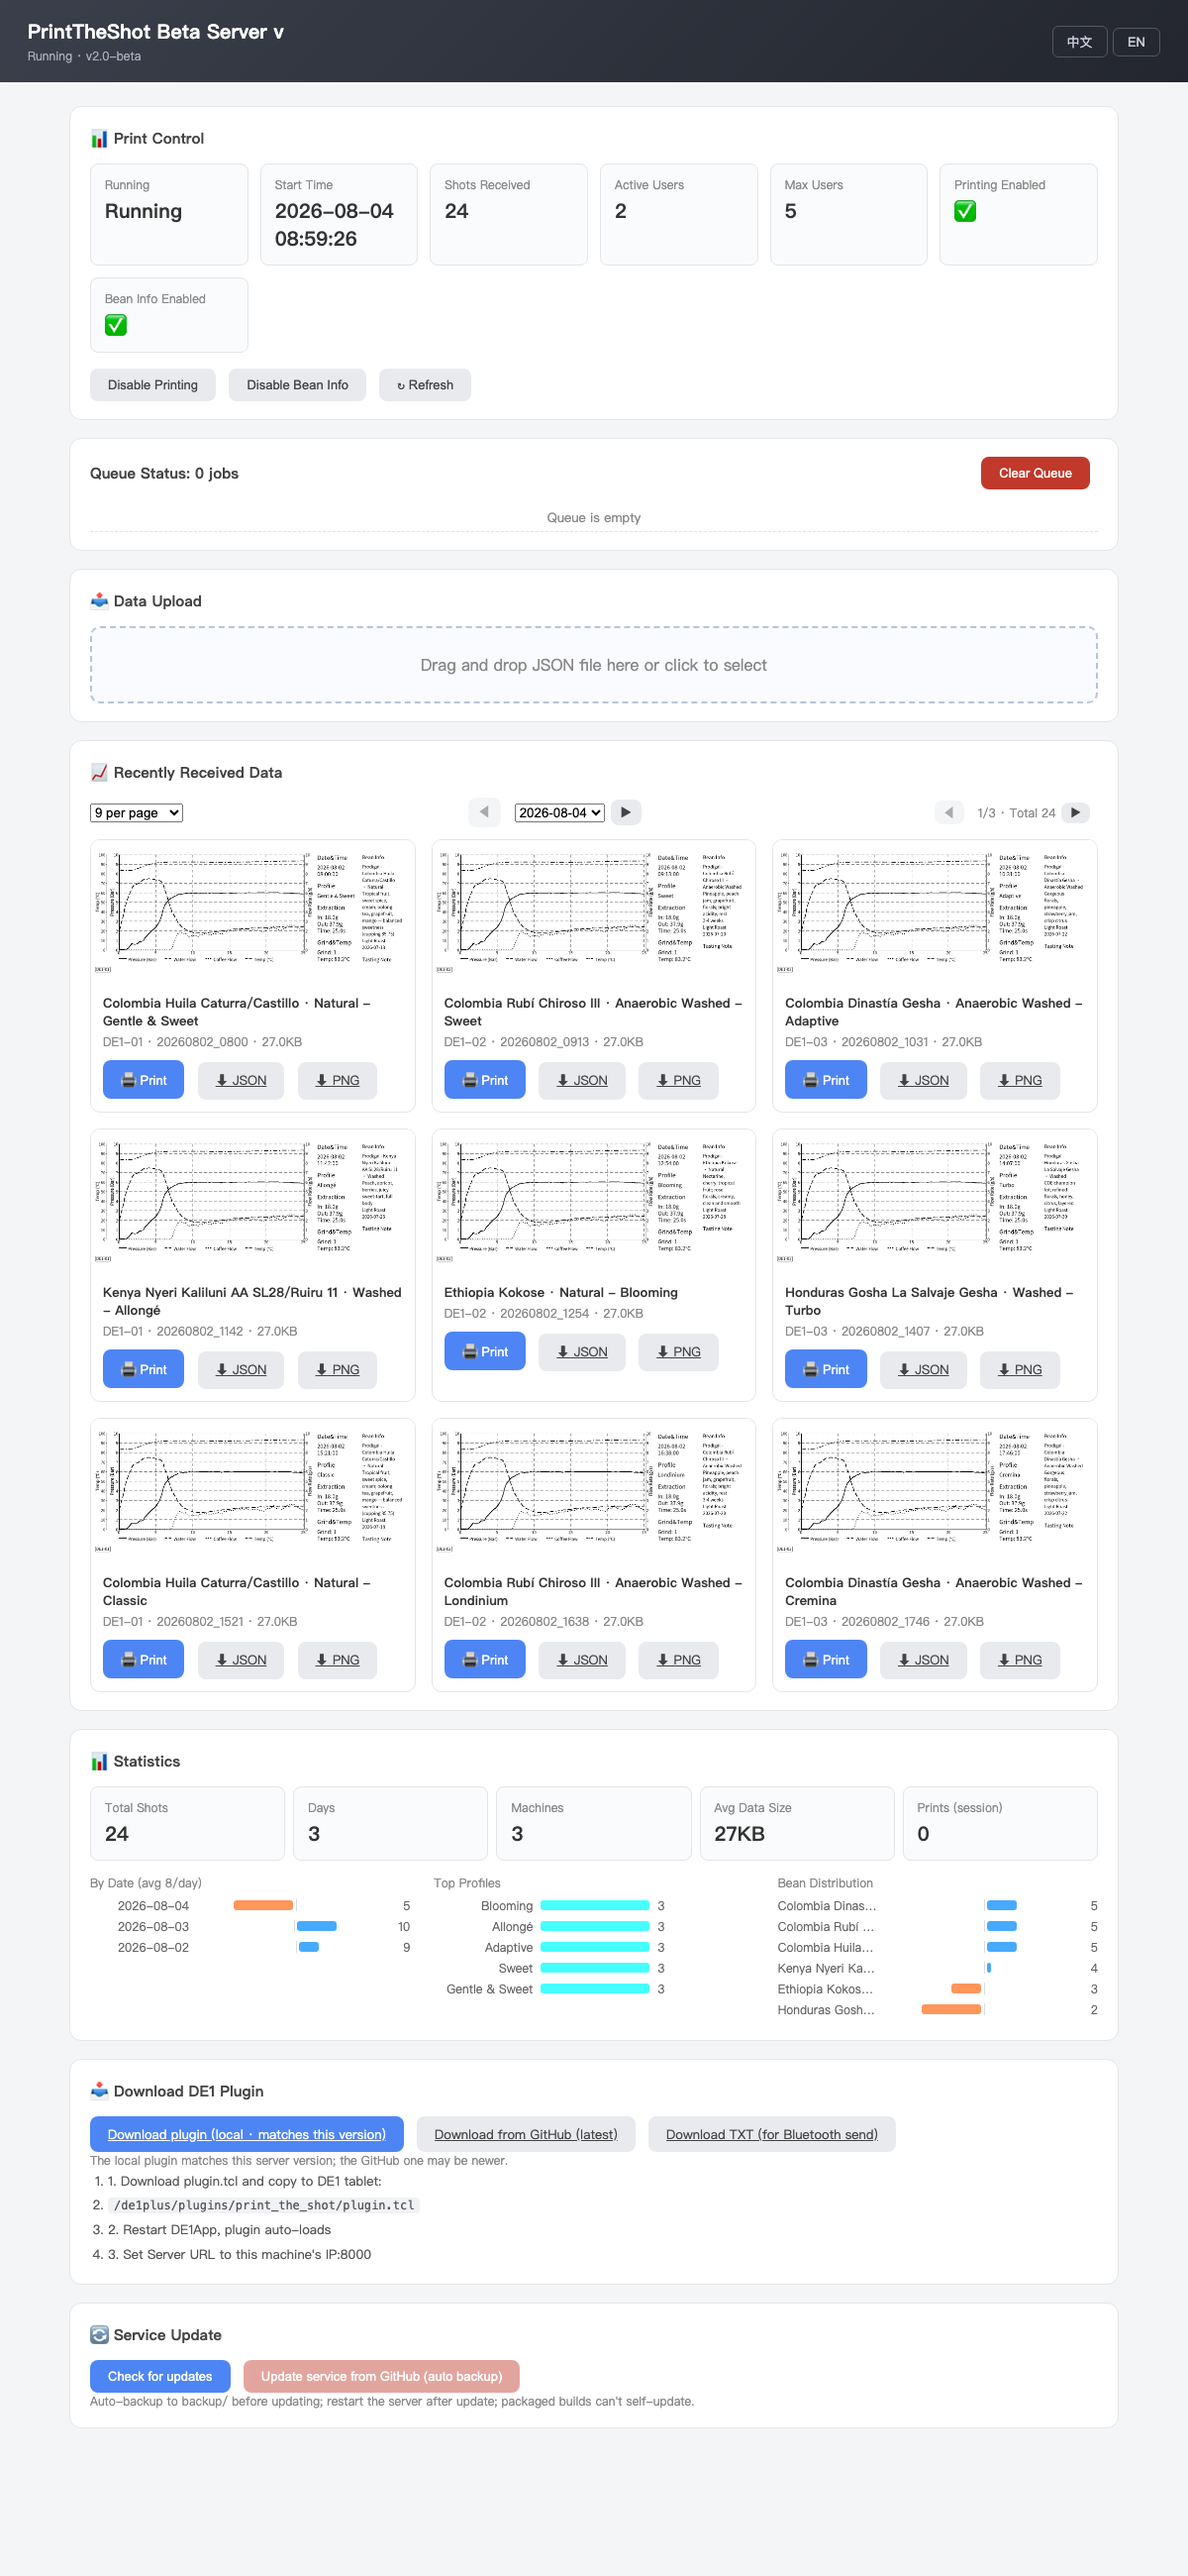
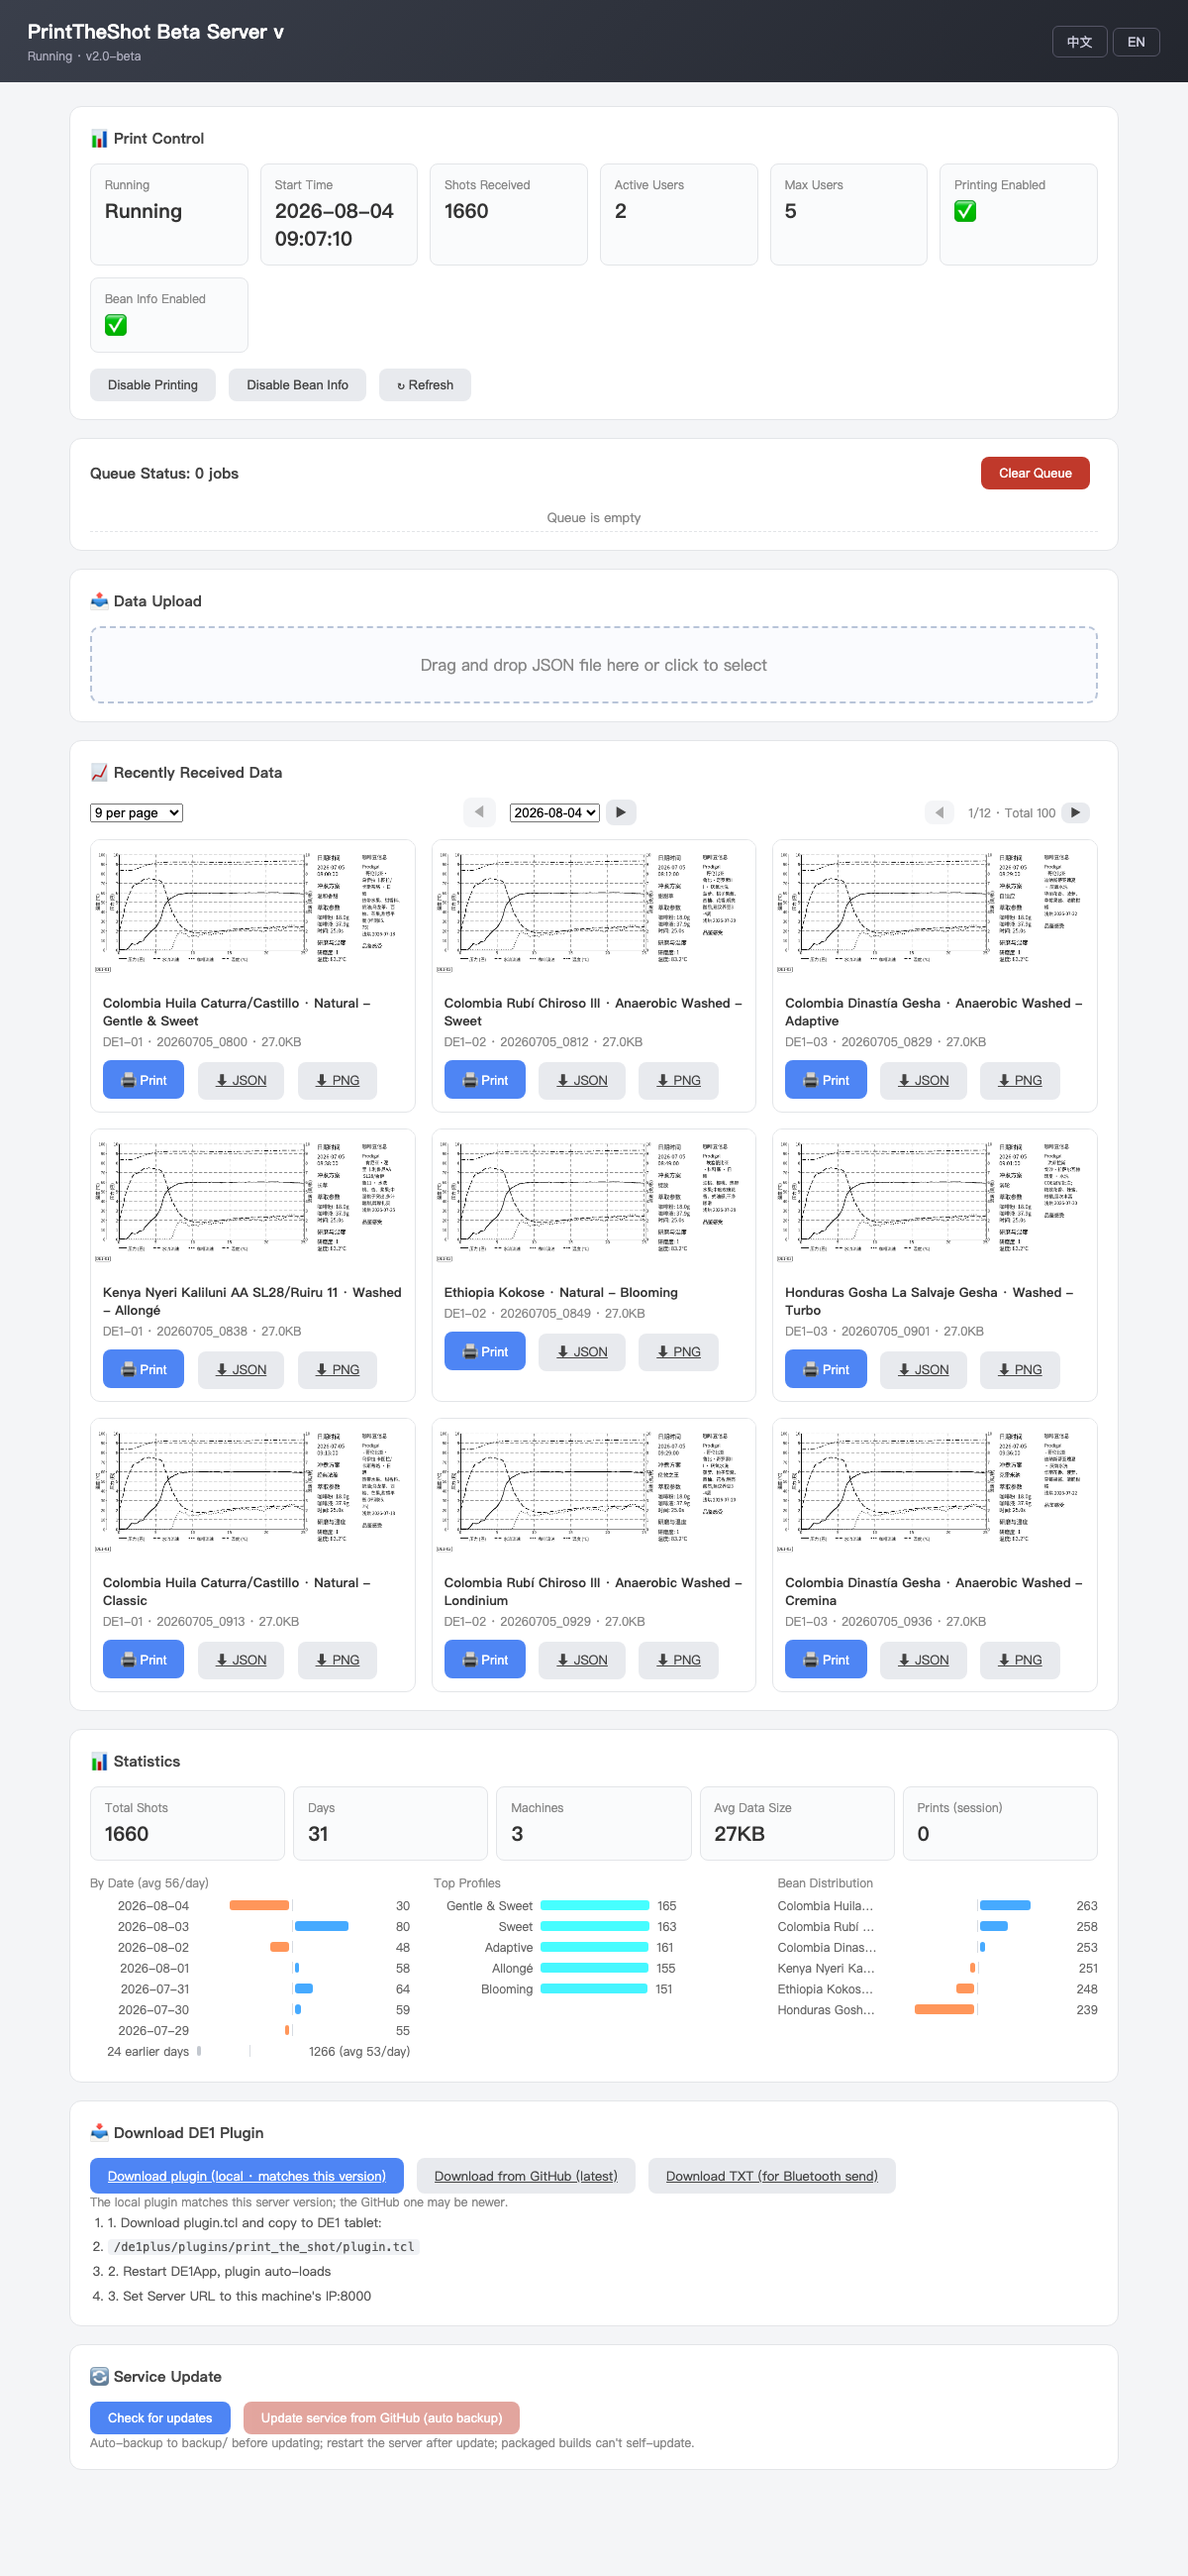
展示层中英翻译(卡片标题+统计);今天数据重建为30条全英文;重截英文截图

diff --git a/print_the_shot_server.py b/print_the_shot_server.py
@@ -313,7 +313,33 @@ LANGUAGES = {
     },
 }
 
-current_language = "en"   # 默认英文,可在网页右上角切换
+current_language = "en"   # 默认英文,可在网页右上角切换 / default English; switchable at the top-right of the web UI
+
+# 豆子/方案中英名映射:展示层翻译,存储保持原始名称
+# Bean/profile name mapping (zh<->en): translated at the display layer; storage keeps the original
+PROFILE_TRANSLATIONS = {
+    "温和香甜": "Gentle & Sweet", "甜甜萃": "Sweet", "自适应": "Adaptive",
+    "长萃": "Allongé", "绽放": "Blooming", "涡轮": "Turbo", "经典浓缩": "Classic",
+    "伦敦之王": "Londinium", "克雷米纳": "Cremina", "高提取": "High Extraction",
+}
+BEAN_TRANSLATIONS = {
+    "哥伦比亚·乌伊拉 卡图拉/卡斯蒂略 · 日晒": "Colombia Huila Caturra/Castillo · Natural",
+    "哥伦比亚 鲁比·奇罗索III · 厌氧水洗": "Colombia Rubí Chiroso III · Anaerobic Washed",
+    "哥伦比亚 迪纳斯蒂亚瑰夏 · 厌氧水洗": "Colombia Dinastía Gesha · Anaerobic Washed",
+    "肯尼亚·涅里 卡利鲁尼AA SL28/鲁伊鲁11 · 水洗": "Kenya Nyeri Kaliluni AA SL28/Ruiru 11 · Washed",
+    "埃塞俄比亚·科科塞 · 日晒": "Ethiopia Kokose · Natural",
+    "洪都拉斯 戈沙·拉萨尔瓦赫瑰夏 · 水洗": "Honduras Gosha La Salvaje Gesha · Washed",
+}
+
+
+def display_name(name, mapping):
+    """按当前界面语言翻译名称;未知名称原样返回 / translate a name for the current UI language"""
+    if not name:
+        return name
+    if current_language == "en":
+        return mapping.get(name, name)
+    rev = {v: k for k, v in mapping.items()}
+    return rev.get(name, name)
 
 
 def get_text(key):
@@ -1064,6 +1090,10 @@ class PrintTheShotHandler(http.server.SimpleHTTPRequestHandler):
             shots = [s for s in shots if s.get("timestamp", "")[:8] == date_str][:500]
         else:
             shots = shots[:100]
+        # 展示层翻译:卡片标题按界面语言显示,存储保持原始名称
+        for s in shots:
+            s["bean"] = display_name(s.get("bean", ""), BEAN_TRANSLATIONS)
+            s["profile"] = display_name(s.get("profile", ""), PROFILE_TRANSLATIONS)
         self._send_json({"shots": shots, "dates": dates_fmt})
 
     def send_stats(self):
@@ -1090,9 +1120,9 @@ class PrintTheShotHandler(http.server.SimpleHTTPRequestHandler):
             "per_date": recent,
             "older_days": len(older),
             "older_count": sum(x["count"] for x in older),
-            "top_profiles": [{"name": n, "count": c}
+            "top_profiles": [{"name": display_name(n, PROFILE_TRANSLATIONS), "count": c}
                              for n, c in profiles.most_common(5)],
-            "top_beans": [{"name": n, "count": c}
+            "top_beans": [{"name": display_name(n, BEAN_TRANSLATIONS), "count": c}
                           for n, c in beans.most_common(6)],
         })
 
